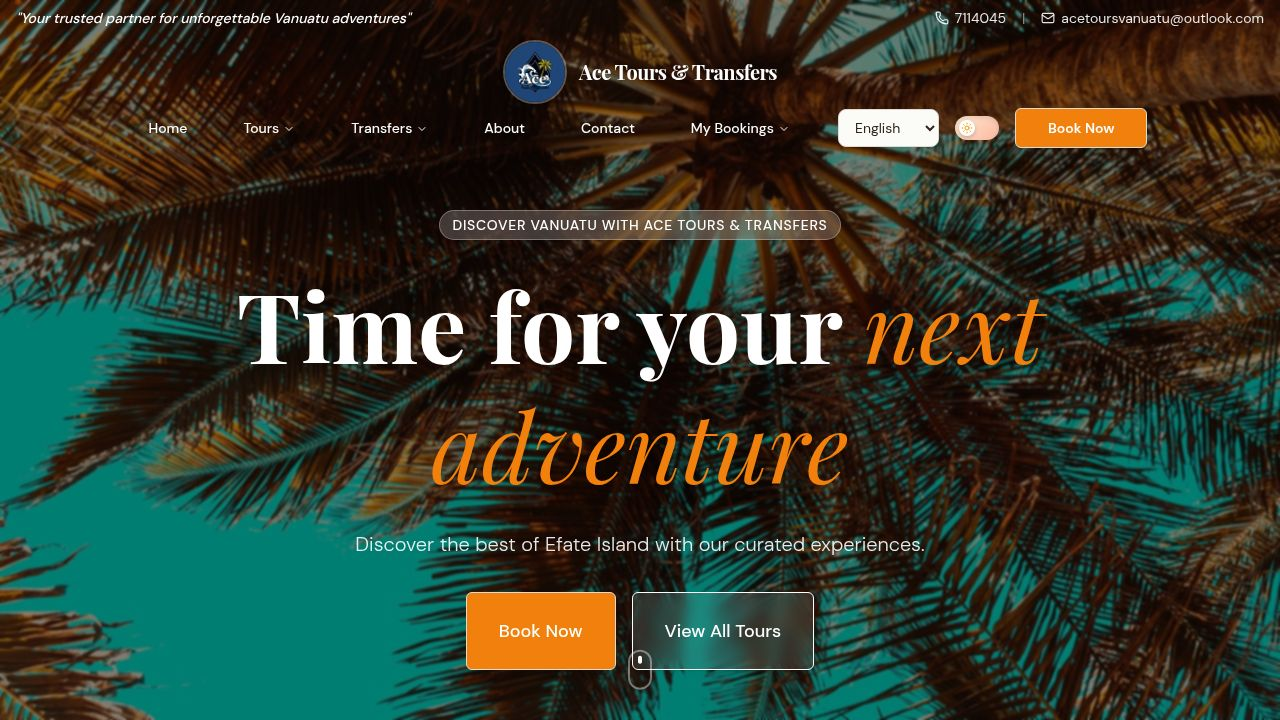
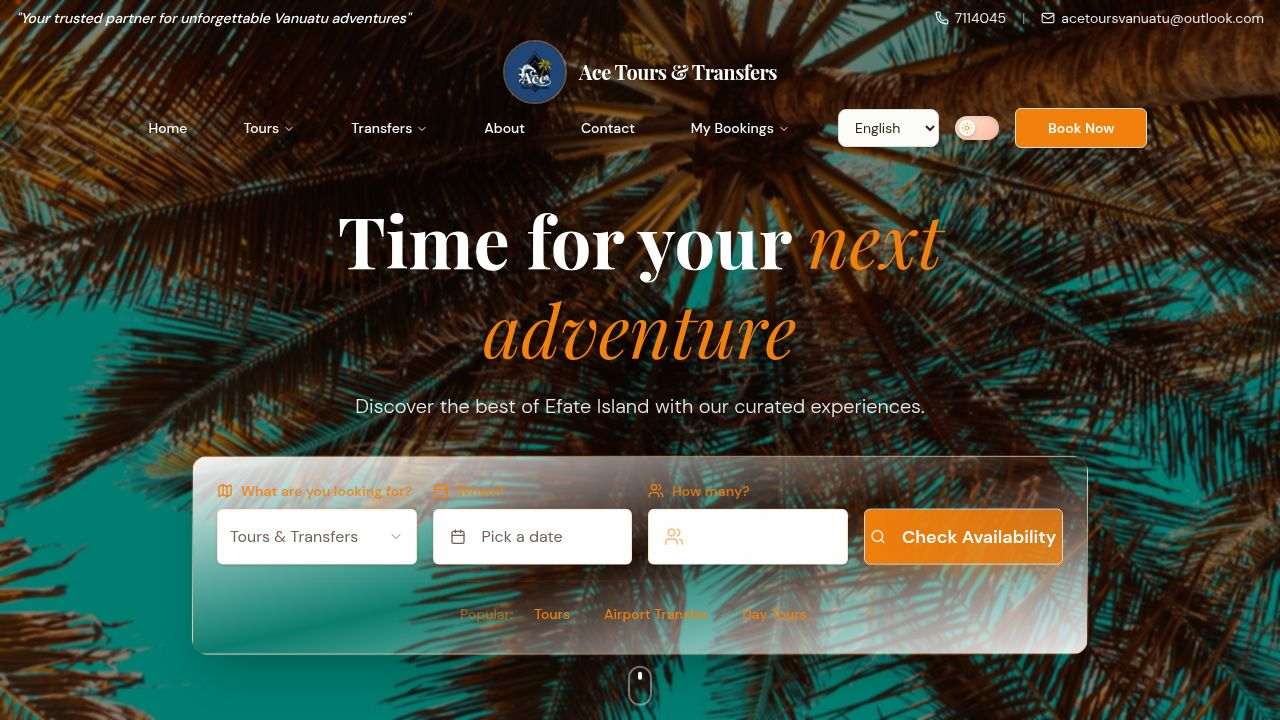
Enhance the look and feel of the tour booking availability checker
Update the hero availability checker widget with a gradient background, primary color accents, and refined input styling for a more premium appearance.

Replit-Commit-Author: Agent
Replit-Commit-Session-Id: a08cac61-0449-4e9d-bbd4-111eddca23f5
Replit-Commit-Checkpoint-Type: full_checkpoint
Replit-Commit-Event-Id: c3203828-dbf7-4a91-9f67-d4364b53459d
Replit-Commit-Screenshot-Url: https://storage.googleapis.com/screenshot-production-us-central1/656af091-120e-4503-9217-3dc679d3c358/a08cac61-0449-4e9d-bbd4-111eddca23f5/3mNdMsa

Changed region(s): [[0.125, 0.275, 0.875, 0.9778]]

diff --git a/client/src/components/hero.tsx b/client/src/components/hero.tsx
@@ -68,16 +68,16 @@ export function Hero() {
           transition={{ duration: 0.8, delay: 0.3, ease: "easeOut" }}
           className="w-full max-w-4xl"
         >
-          <div className="bg-white/95 backdrop-blur-md rounded-2xl shadow-2xl p-4 md:p-6 border border-white/20">
+          <div className="bg-gradient-to-br from-white/95 via-primary/5 to-white/90 backdrop-blur-md rounded-2xl shadow-2xl p-4 md:p-6 border border-primary/20 ring-1 ring-primary/10">
             <div className="grid grid-cols-1 md:grid-cols-4 gap-4 md:items-end">
               {/* Service Type */}
               <div className="flex flex-col gap-2">
-                <label className="text-sm font-semibold text-foreground flex items-center gap-2">
+                <label className="text-sm font-semibold text-primary/80 flex items-center gap-2">
                   <Map className="h-4 w-4 text-primary" />
                   {t("hero.serviceType", "What are you looking for?")}
                 </label>
                 <Select value={serviceType} onValueChange={setServiceType}>
-                  <SelectTrigger className="h-14 text-base bg-background border-border" data-testid="select-service-type">
+                  <SelectTrigger className="h-14 text-base bg-white border-primary/20 hover:border-primary/40 focus:ring-primary/30 shadow-sm" data-testid="select-service-type">
                     <SelectValue placeholder={t("hero.selectService", "Tours & Transfers")} />
                   </SelectTrigger>
                   <SelectContent>
@@ -109,7 +109,7 @@ export function Hero() {
 
               {/* Date Picker */}
               <div className="flex flex-col gap-2">
-                <label className="text-sm font-semibold text-foreground flex items-center gap-2">
+                <label className="text-sm font-semibold text-primary/80 flex items-center gap-2">
                   <CalendarIcon className="h-4 w-4 text-primary" />
                   {t("hero.travelDate", "When?")}
                 </label>
@@ -118,7 +118,7 @@ export function Hero() {
                     <Button
                       variant="outline"
                       className={cn(
-                        "w-full h-14 justify-start text-left text-base font-normal bg-background",
+                        "w-full h-14 justify-start text-left text-base font-normal bg-white border-primary/20 hover:border-primary/40 shadow-sm",
                         !selectedDate && "text-muted-foreground"
                       )}
                       data-testid="button-date-picker"
@@ -142,19 +142,19 @@ export function Hero() {
 
               {/* Guests */}
               <div className="flex flex-col gap-2">
-                <label className="text-sm font-semibold text-foreground flex items-center gap-2">
+                <label className="text-sm font-semibold text-primary/80 flex items-center gap-2">
                   <Users className="h-4 w-4 text-primary" />
                   {t("hero.guests", "How many?")}
                 </label>
                 <div className="relative">
-                  <Users className="absolute left-4 top-1/2 -translate-y-1/2 h-5 w-5 text-muted-foreground" />
+                  <Users className="absolute left-4 top-1/2 -translate-y-1/2 h-5 w-5 text-primary/50" />
                   <Input
                     type="number"
                     min="1"
                     max="50"
                     value={guests}
                     onChange={(e) => setGuests(e.target.value)}
-                    className="h-14 text-base pl-12 bg-background"
+                    className="h-14 text-base pl-12 bg-white border-primary/20 hover:border-primary/40 shadow-sm"
                     placeholder={t("hero.guestsPlaceholder", "2 guests")}
                     data-testid="input-guests"
                   />
@@ -166,7 +166,7 @@ export function Hero() {
                 <Button
                   onClick={handleSearch}
                   size="lg"
-                  className="w-full h-14 text-lg font-semibold shadow-lg hover:scale-[1.02] transition-transform"
+                  className="w-full h-14 text-lg font-semibold bg-gradient-to-r from-primary to-primary/80 hover:from-primary/90 hover:to-primary shadow-lg shadow-primary/25 hover:shadow-xl hover:shadow-primary/30 hover:scale-[1.02] transition-all duration-200"
                   data-testid="button-check-availability"
                 >
                   <Search className="mr-2 h-5 w-5" />
@@ -176,20 +176,20 @@ export function Hero() {
             </div>
 
             {/* Quick Links */}
-            <div className="flex flex-wrap items-center justify-center gap-2 mt-4 pt-4 border-t border-border/50">
-              <span className="text-sm text-muted-foreground">{t("hero.popularSearches", "Popular:")}</span>
+            <div className="flex flex-wrap items-center justify-center gap-2 mt-4 pt-4 border-t border-primary/10">
+              <span className="text-sm text-primary/60 font-medium">{t("hero.popularSearches", "Popular:")}</span>
               <Link href="/tours">
-                <Button variant="ghost" size="sm" className="text-sm text-primary hover:bg-primary/10">
+                <Button variant="ghost" size="sm" className="text-sm text-primary font-medium hover:bg-primary/10 hover:text-primary">
                   {t("nav.tours")}
                 </Button>
               </Link>
               <Link href="/transfers">
-                <Button variant="ghost" size="sm" className="text-sm text-primary hover:bg-primary/10">
+                <Button variant="ghost" size="sm" className="text-sm text-primary font-medium hover:bg-primary/10 hover:text-primary">
                   {t("hero.airportTransfer", "Airport Transfer")}
                 </Button>
               </Link>
               <Link href="/tours">
-                <Button variant="ghost" size="sm" className="text-sm text-primary hover:bg-primary/10">
+                <Button variant="ghost" size="sm" className="text-sm text-primary font-medium hover:bg-primary/10 hover:text-primary">
                   {t("hero.dayTours", "Day Tours")}
                 </Button>
               </Link>
